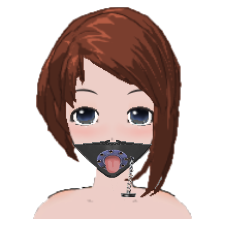
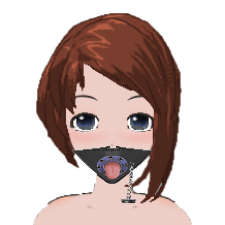
Plug Gag Screen Center
Plug Gag Screen Center

Changed region(s): [[0.1244, 0.0311, 0.8711, 1.0]]

diff --git a/BondageClub/Screens/Inventory/ItemMouth/PlugGag/PlugGag.js b/BondageClub/Screens/Inventory/ItemMouth/PlugGag/PlugGag.js
@@ -16,19 +16,19 @@ function InventoryItemMouthPlugGagDraw() {
 
 	// Draw the possible gag types
 	DrawText(DialogFind(Player, "SelectGagType"), 1500, 500, "white", "gray");
-	DrawButton(1000, 550, 225, 225, "", (DialogFocusItem.Property.Type == null || DialogFocusItem.Property.Type == "Plug") ? "#888888" : "White");
-	DrawImage("Screens/Inventory/" + DialogFocusItem.Asset.Group.Name + "/" + DialogFocusItem.Asset.Name + "/Plug.png", 1000, 550);
-	DrawText(DialogFind(Player, "PlugGagMouthTypePlug"), 1115, 800, "white", "gray");
-	DrawButton(1250, 550, 225, 225, "", ((DialogFocusItem.Property.Type != null) && (DialogFocusItem.Property.Type == "Open")) ? "#888888" : "White");
-	DrawImage("Screens/Inventory/" + DialogFocusItem.Asset.Group.Name + "/" + DialogFocusItem.Asset.Name + "/Open.png", 1250, 550);
-	DrawText(DialogFind(Player, "PlugGagMouthTypeOpen"), 1365, 800, "white", "gray");
+	DrawButton(1175, 550, 225, 225, "", (DialogFocusItem.Property.Type == null || DialogFocusItem.Property.Type == "Plug") ? "#888888" : "White");
+	DrawImage("Screens/Inventory/" + DialogFocusItem.Asset.Group.Name + "/" + DialogFocusItem.Asset.Name + "/Plug.png", 1175, 549);
+	DrawText(DialogFind(Player, "PlugGagMouthTypePlug"), 1288, 800, "white", "gray");
+	DrawButton(1600, 550, 225, 225, "", ((DialogFocusItem.Property.Type != null) && (DialogFocusItem.Property.Type == "Open")) ? "#888888" : "White");
+	DrawImage("Screens/Inventory/" + DialogFocusItem.Asset.Group.Name + "/" + DialogFocusItem.Asset.Name + "/Open.png", 1600, 549);
+	DrawText(DialogFind(Player, "PlugGagMouthTypeOpen"), 1713, 800, "white", "gray");
 }
 
 // Catches the item extension clicks
 function InventoryItemMouthPlugGagClick() {
 	if ((MouseX >= 1885) && (MouseX <= 1975) && (MouseY >= 25) && (MouseY <= 110)) DialogFocusItem = null;
-	if ((MouseX >= 1000) && (MouseX <= 1225) && (MouseY >= 550) && (MouseY <= 775) && (DialogFocusItem.Property.Type != null)) InventoryItemMouthPlugGagSetType(null);
-	if ((MouseX >= 1250) && (MouseX <= 1475) && (MouseY >= 550) && (MouseY <= 775) && ((DialogFocusItem.Property.Type == null) || (DialogFocusItem.Property.Type != "Open"))) InventoryItemMouthPlugGagSetType("Open");
+	if ((MouseX >= 1175) && (MouseX <= 1400) && (MouseY >= 550) && (MouseY <= 775) && (DialogFocusItem.Property.Type != null)) InventoryItemMouthPlugGagSetType(null);
+	if ((MouseX >= 1600) && (MouseX <= 1825) && (MouseY >= 550) && (MouseY <= 775) && ((DialogFocusItem.Property.Type == null) || (DialogFocusItem.Property.Type != "Open"))) InventoryItemMouthPlugGagSetType("Open");
 }
 
 // Sets the gag type (Plug, Open)
